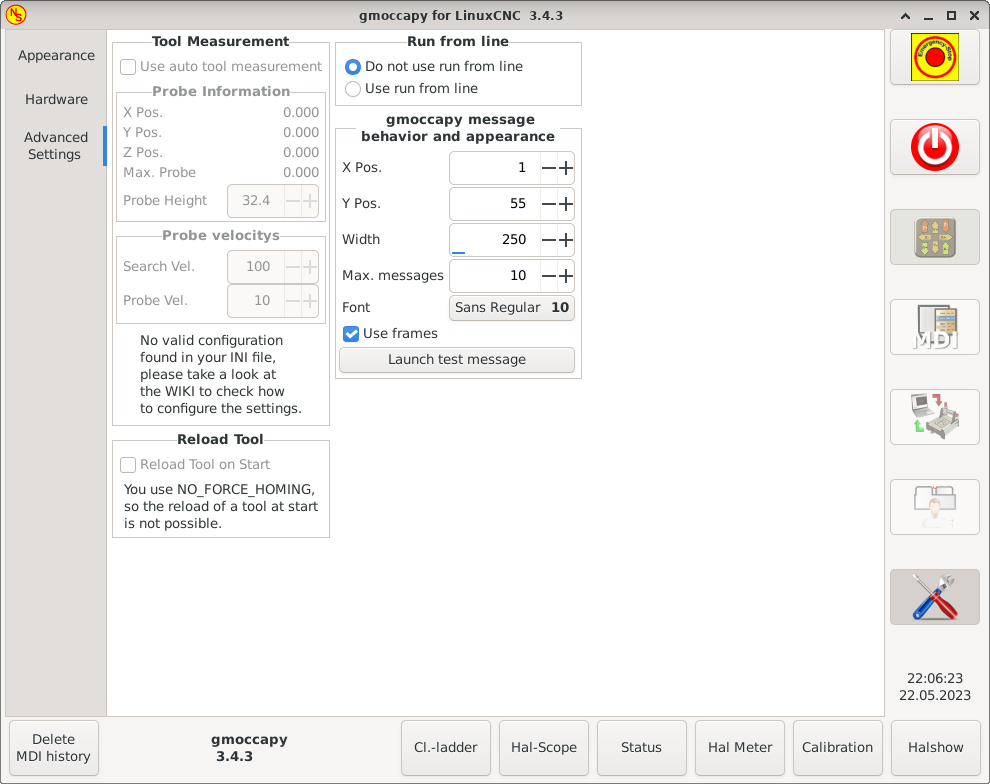
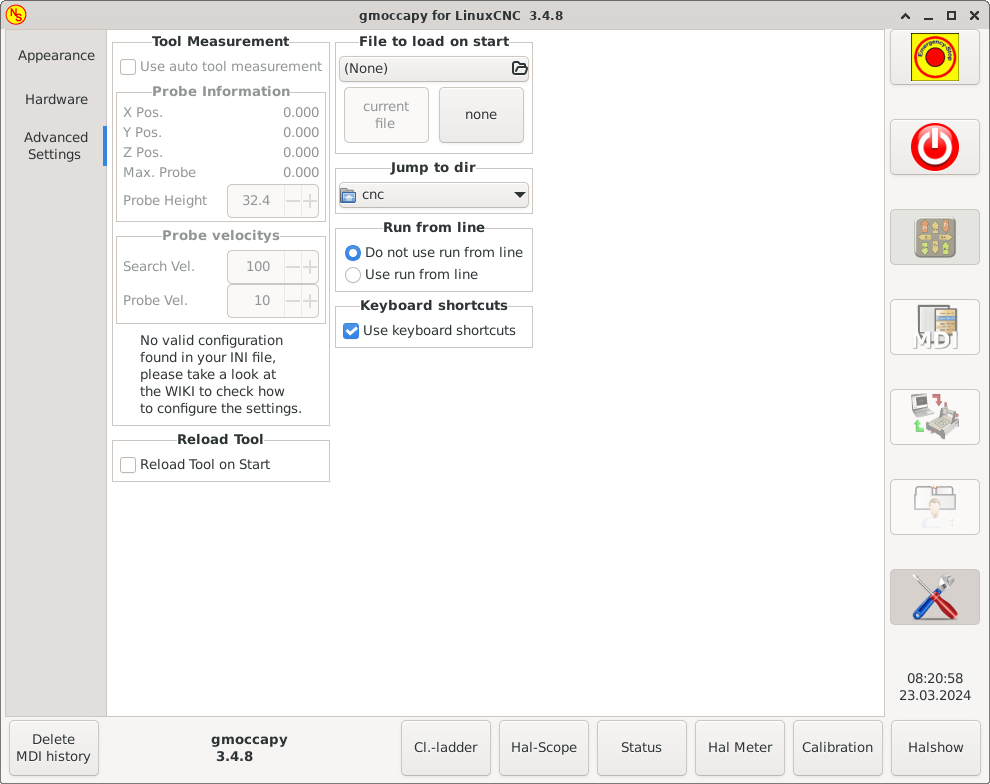
gmoccapy_3_4_8: updated docs and release notes

Changed region(s): [[0.0, 0.0, 1.0, 0.4898], [0.1212, 0.5816, 0.3333, 0.6735], [0.9091, 0.8571, 0.9697, 0.8878]]

diff --git a/src/emc/usr_intf/gmoccapy/gmoccapy.py b/src/emc/usr_intf/gmoccapy/gmoccapy.py
@@ -76,7 +76,7 @@ sys.excepthook = excepthook
 
 # constants
 #         # gmoccapy  #"
-_RELEASE = " 3.4.7.1"
+_RELEASE = " 3.4.8"
 _INCH = 0                         # imperial units are active
 _MM = 1                           # metric units are active
 
